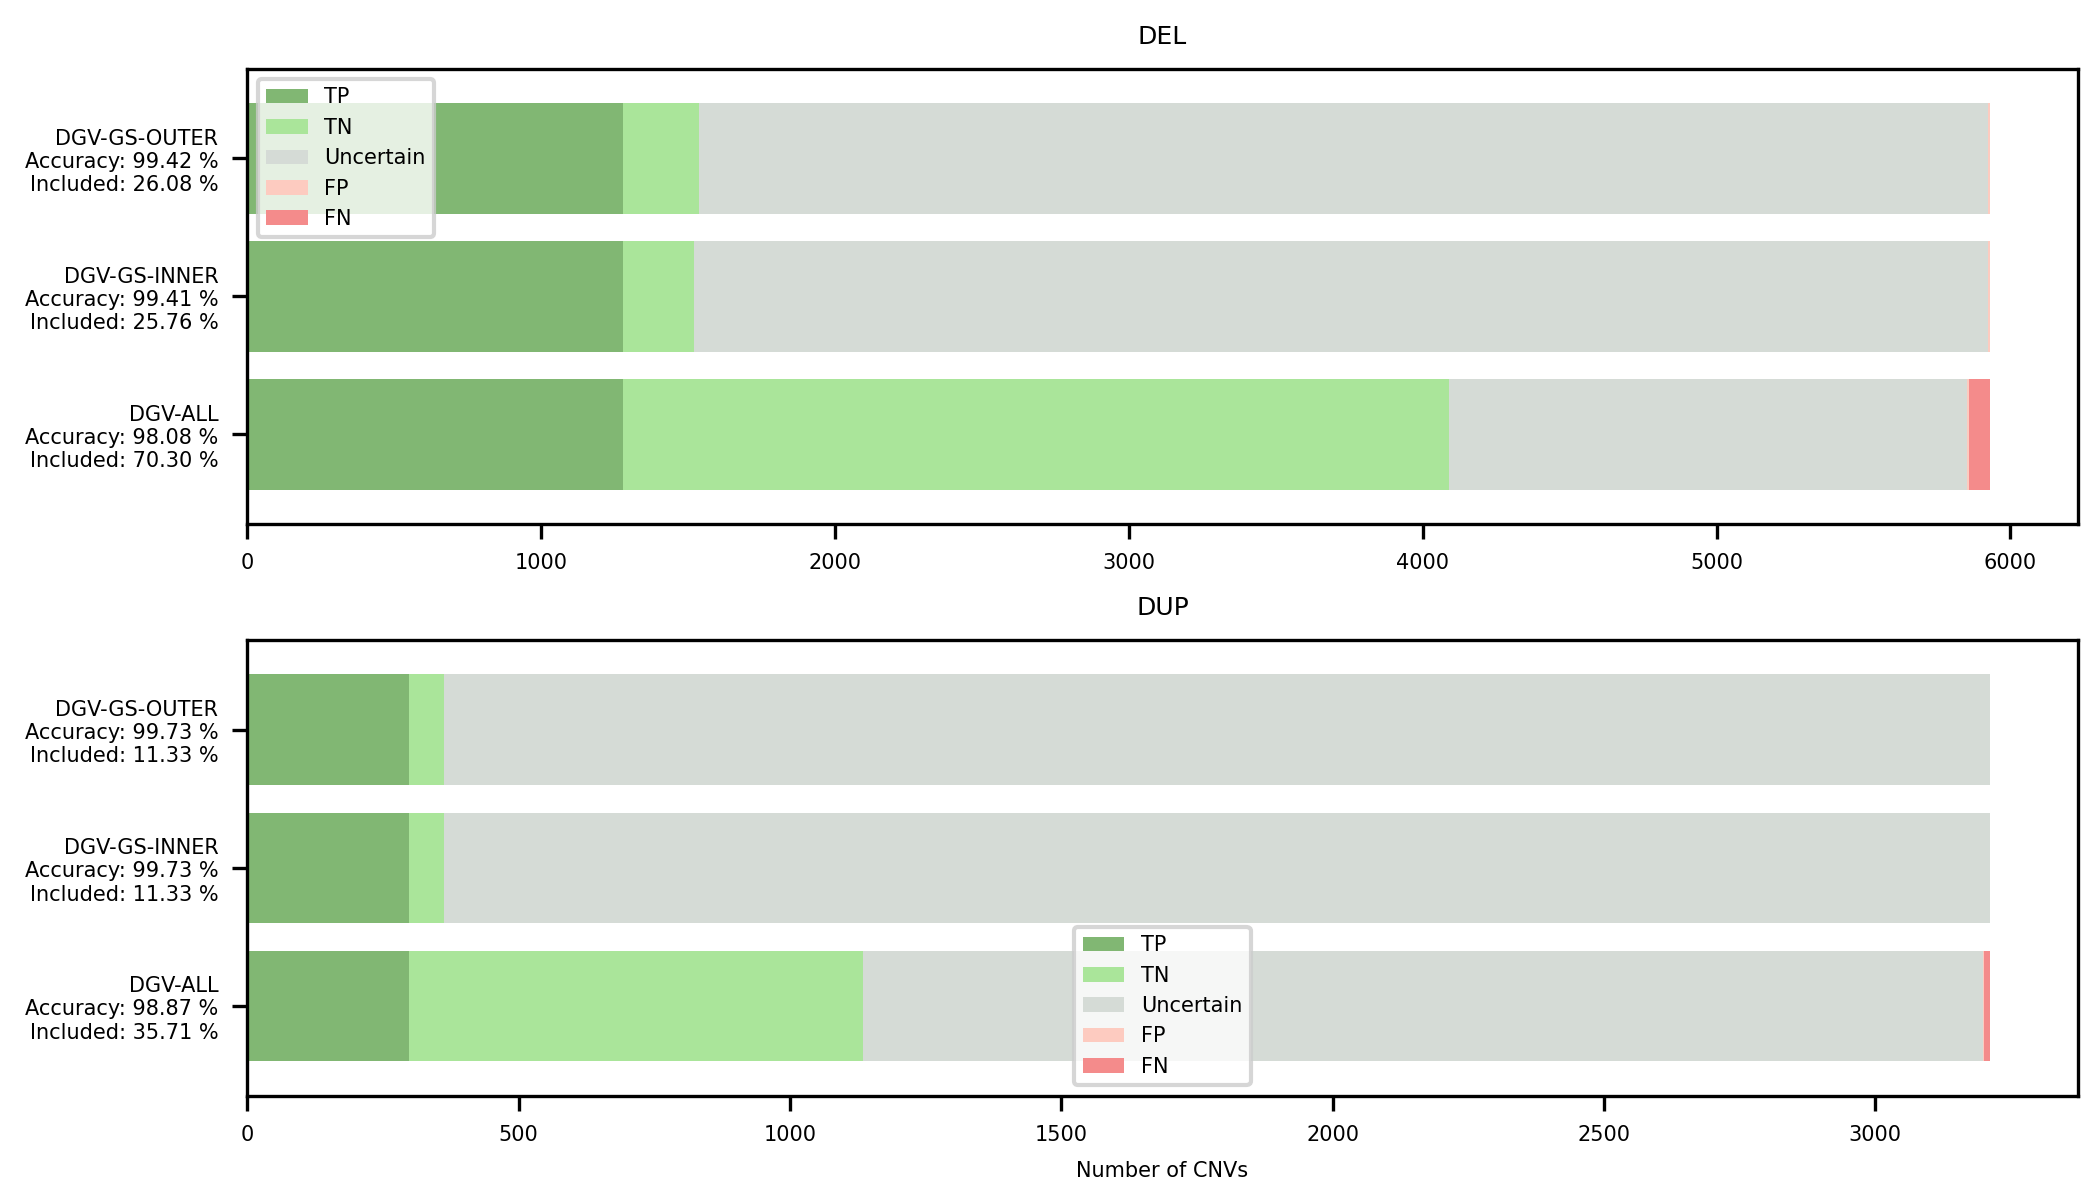
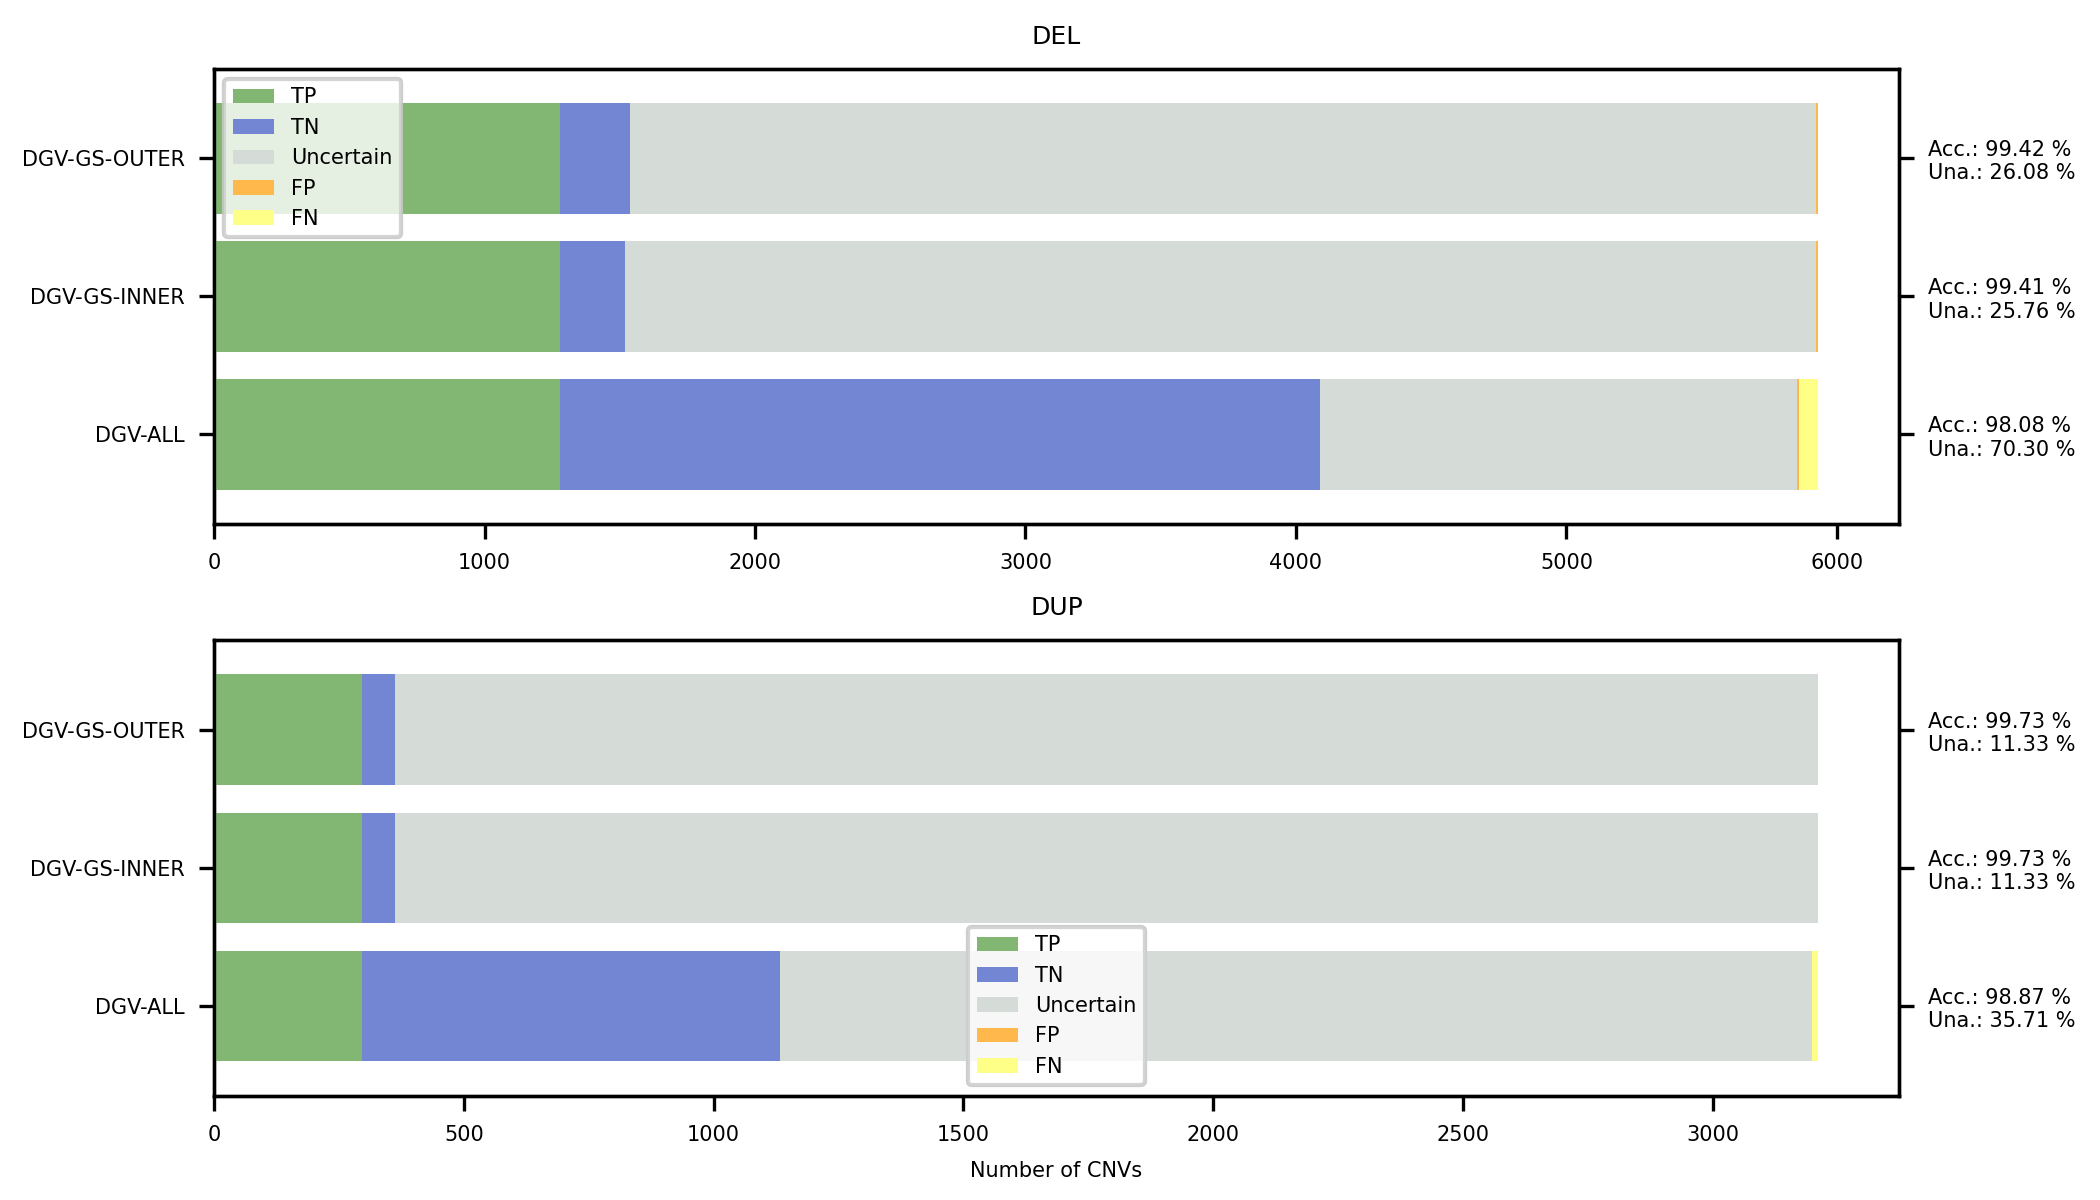
color scheme update; display metrics on right side of bar charts

diff --git a/scripts/plots/bars.py b/scripts/plots/bars.py
@@ -41,7 +41,8 @@ def bars_marcnv_options(output: str, **kwargs):
                 marcnv = temp.query(
                     f'benign_database == "{settings.MARCNV_BENIGN_DATABASE}" & hi_all == {hi} & loss_benign_cnvs_with_gains == 0').loc[
                          :, ['chrom', 'start', 'end', 'cnv_type', 'marcnv_severity', 'clinsig']]
-                bar_update(results=res, y=marcnv.clinsig, yh=marcnv.marcnv_severity, method=f'HI (1, 2, 3): {hi}')
+                bar_update(results=res, y=marcnv.clinsig, yh=marcnv.marcnv_severity,
+                           method=fr'HI gene score $\geq$ 1' if hi == 1 else 'HI gene score = 0')
         else:
             for hi in [0, 1]:
                 # for lb in [0, 1]:
@@ -49,7 +50,7 @@ def bars_marcnv_options(output: str, **kwargs):
                     f'benign_database == "{settings.MARCNV_BENIGN_DATABASE}" & hi_all == {hi} & loss_benign_cnvs_with_gains == 0').loc[
                          :, ['chrom', 'start', 'end', 'cnv_type', 'marcnv_severity', 'clinsig']]
                 bar_update(results=res, y=marcnv.clinsig, yh=marcnv.marcnv_severity,
-                           method=f'HI (1, 2, 3): {hi}')
+                           method=fr'HI gene score $\geq$ 1' if hi == 1 else r'HI gene score = 0')
                 # method=f'HI (1, 2, 3): {hi}\nOnly Loss CNVs: {lb}')
 
         barchart(res, ax=ax[c])
@@ -61,17 +62,20 @@ def bars_marcnv_options(output: str, **kwargs):
 
 
 @datacheck
-def bars_method_comparison(output: str, **kwargs):
+def bars_method_comparison(output: str, clinsig=None, **kwargs):
     df = get_main()
     LIKELY_IS_UNCERTAIN = True
     fig, ax = plt.subplots(2, 1, figsize=(7, 4))
+
+    if clinsig:
+        df = df.query(f'clinsig == "{clinsig}"')
 
     for c, cnv_type in enumerate(['DEL', 'DUP']):
         res = []
         temp = df.query(f'cnv_type == "{cnv_type}"')
 
         # CLASSIFYCNV
-        ccnv = temp.loc[:, ['chrom', 'start', 'end', 'cnv_type', 'classifycnv_severity', 'clinsig']].drop_duplicates()
+        ccnv = temp.loc[:, ['chrom', 'start', 'end', 'cnv_type', 'classifycnv_severity', 'classifycnv_score', 'clinsig']].drop_duplicates()
         bar_update(results=res, y=ccnv.clinsig, yh=ccnv.classifycnv_severity, method=f'ClassifyCNV',
                    likely_is_uncertain=LIKELY_IS_UNCERTAIN)
 
@@ -86,6 +90,11 @@ def bars_method_comparison(output: str, **kwargs):
         isv_df = temp.loc[:,
                  ['chrom', 'start', 'end', 'cnv_type', 'isv_severity', 'isv_probability', 'clinsig']].drop_duplicates()
         bar_update(results=res, y=isv_df.clinsig, yh=isv_df.isv_severity, method=f'ISV')
+
+        # ClassifyCNV + ISV
+        yh = ccnv.classifycnv_score.values + isv_df.isv_probability.values - 0.5
+        yh = np.array([acmg_severity(s) for s in yh])
+        bar_update(results=res, y=isv_df.clinsig, yh=yh, method=f'ClassifyCNV + ISV')
 
         # MARCNV + ISV
         yh = marcnv.marcnv_score.values + isv_df.isv_probability.values - 0.5

diff --git a/scripts/helpers.py b/scripts/helpers.py
@@ -130,22 +130,36 @@ def bar_update(results, y, yh, method, likely_is_uncertain=True):
     accuracy = correct / (correct + incorrect)
     included = (correct + incorrect) / (correct + incorrect + uncertain)
 
-    label = '{}\nAccuracy: {:2.2f} %\nIncluded: {:2.2f} %' \
-        .format(method, 100 * accuracy, 100 * included)
-    results.append([label, TP, TN, uncertain, FP, FN])
+    label = method
+    metrics = 'Acc.: {:2.2f} %\nUna.: {:2.2f} %' \
+        .format(100 * accuracy, 100 * included)
+    results.append([label, metrics, TP, TN, uncertain, FP, FN])
 
 
-def barchart(results, ax, stacked=True):
+def barchart(results, ax, stacked=True, show_legend=True):
     # results = pd.DataFrame(results, columns=["label", "Correct", "Uncertain", "Incorrect"])
-    results = pd.DataFrame(results, columns=["label", "TP", "TN", "Uncertain", "FP", "FN"])
+    results = pd.DataFrame(results, columns=["label", "metrics", "TP", "TN", "Uncertain", "FP", "FN"])
+    metrics = results.loc[:, 'metrics'].values[::-1]
 
     if stacked:
-        results.iloc[::-1].set_index('label').plot(
+        results.drop('metrics', axis=1).iloc[::-1].set_index('label').plot(
             kind='barh', stacked=True,
             ax=ax, width=0.8,
             color=[settings.COLORS[c] for c in ["TP", "TN", "Uncertain", "FP", "FN"]]
         )
+        ax.set_ylabel('')
 
+        ax2 = ax.twinx()
+        results.drop('label', axis=1).iloc[::-1].set_index('metrics').plot(
+            kind='barh', stacked=True,
+            ax=ax2, width=0.8,
+            color=[settings.COLORS[c] for c in ["TP", "TN", "Uncertain", "FP", "FN"]]
+        )
+        ax2.set_ylabel('')
+
+        if not show_legend:
+            ax.get_legend().remove()
+            ax2.get_legend().remove()
 
 def save_fig(output: str, fig):
     fig.tight_layout()

diff --git a/scripts/plots/benign_db_comparison.py b/scripts/plots/benign_db_comparison.py
@@ -11,7 +11,7 @@ from scripts.helpers import datacheck, bar_update, barchart, save_fig
 def benign_db_comparison(output: str, **kwargs):
     ben_db = pd.read_csv(os.path.join(settings.ROOT_DIR, 'data', 'benign_cnv_database_comparison.tsv.gz'), sep='\t',
                          compression='gzip')
-
+    ben_db = ben_db.query('data != "test"')
     y = ben_db.clinsig.values
     LIKELY_IS_UNCERTAIN = True
 
@@ -24,10 +24,15 @@ def benign_db_comparison(output: str, **kwargs):
 
             for frequency in [0, 0.01, 0.1, 0.5, 1, 2, 10]:
                 yh = ben_db.loc[:, f"{bd}_{cnv_types}_{frequency}"].values
-                bar_update(res, y, yh, f"F: {frequency}", likely_is_uncertain=LIKELY_IS_UNCERTAIN)
+                bar_update(res, y, yh, f"MAF: {frequency} %", likely_is_uncertain=LIKELY_IS_UNCERTAIN)
 
-            barchart(res, ax=ax[j, i])
+            show_legend = False
+            if i == 1 and j == 3:
+                show_legend = True
+
+            barchart(res, ax=ax[j, i], show_legend=show_legend)
             ax[j, i].set_title(bd.upper())
+
 
     ax[0, 0].set_title(f"LOSSES\nDGV")
     ax[0, 1].set_title(f"GAINS & LOSSES\nDGV")

diff --git a/main.py b/main.py
@@ -66,3 +66,9 @@ if __name__ == '__main__':
         marcnv_vs_isv(output='plots/marcnv_vs_isv' + settings.FIGURE_FORMAT, force_recreate=args.force)
         marcnv_isv_split_distribution(output='plots/marcnv_isv_split_distribution' + settings.FIGURE_FORMAT,
                                       force_recreate=args.force)
+        bars_method_comparison(output='plots/benign_cnvs_method_comparison' + settings.FIGURE_FORMAT,
+                               clinsig='Benign',
+                               force_recreate=args.force)
+        bars_method_comparison(output='plots/pathogenic_cnvs_method_comparison' + settings.FIGURE_FORMAT,
+                               clinsig='Pathogenic',
+                               force_recreate=args.force)

diff --git a/scripts/config.py b/scripts/config.py
@@ -24,10 +24,10 @@ class Settings:
 
     COLORS = {
         'TP': '#81B773',
-        'TN': '#AAE59A',
+        'TN': '#7286D3',
         'Uncertain': '#D5DBD6',
-        'FP': '#FDCBC0',
-        'FN': '#F48B8B',
+        'FP': '#FFB84C',
+        'FN': '#FEFF86',
         'Benign': '#81B773',
         'Likely benign': '#AAE59A',
         'Likely pathogenic': '#FDCBC0',
